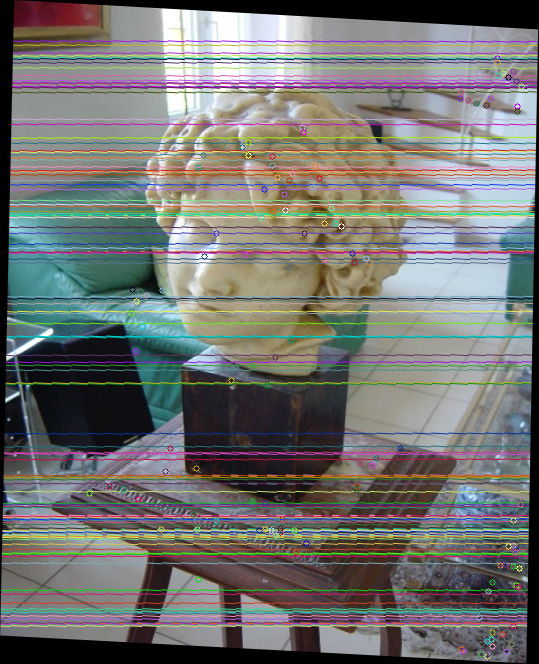
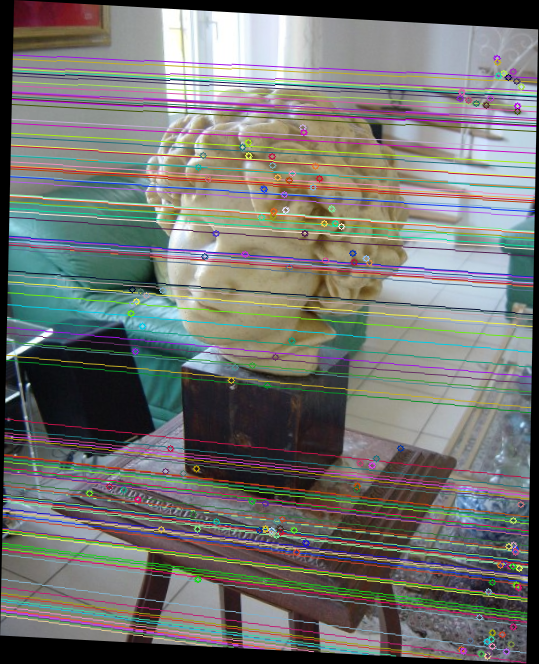
Refactored.

diff --git a/Stereo Vision/StereoPair.cpp b/Stereo Vision/StereoPair.cpp
@@ -4,7 +4,7 @@
 //
 
 #include "StereoPair.h"
-#include "View.h"
+#include "MonoView.h"
 
 using namespace cv;
 using namespace std;
@@ -23,13 +23,14 @@ namespace sv {
             DMatch goodMatch = knnMatches[i][1];
             if (bestMatch.distance < goodMatch.distance * KNN_THRESHOLD) {
                 goodMatchedPoints.push_back(bestMatch);
-                lMatchedPoints.push_back(l->featurePoints()[(bestMatch.queryIdx)].pt);
-                rMatchedPoints.push_back(r->featurePoints()[(bestMatch.trainIdx)].pt);
+                l->pushMatchedPoint(bestMatch.queryIdx);
+                r->pushMatchedPoint(bestMatch.trainIdx);
             }
         }
         cout << "Good Matches: " << goodMatchedPoints.size() << endl;
         Mat matchImg;
-        drawMatches(l->img(), l->featurePoints(), r->img(), r->featurePoints(),
+        drawMatches(l->img(), l->featurePoints(),
+                    r->img(), r->featurePoints(),
                 goodMatchedPoints, matchImg,
                 Scalar::all(-1), Scalar::all(-1), vector<char>(),
                 DrawMatchesFlags::NOT_DRAW_SINGLE_POINTS);
@@ -38,20 +39,15 @@ namespace sv {
 
     void StereoPair::restoreMotion() {
         Mat status;
-        mF = findFundamentalMat(lMatchedPoints, rMatchedPoints, cv::FM_RANSAC, 3, 0.99, status);
-        mF.convertTo(mFundamentalMat, CV_64F);
+        mF = findFundamentalMat(l->matchedPoints(), r->matchedPoints(), cv::FM_RANSAC, 3, 0.99, status);
 
-        computeCorrespondEpilines(lMatchedPoints, 1, mF, lEpiLines);
-        l->img().copyTo(lEpiImg);
-        drawEpiLines(lEpiLines, lEpiImg);
-        //drawMatchedPoints(lMatchedPoints, lEpiImg);
-        imwrite(resPath + "epi-L.png", lEpiImg);
+        l->drawEpipolarLines(mF, palette);
+        l->drawMatchedPoints(palette, l->epipolarImg());
+        imwrite(resPath + "epi-L.png", l->epipolarImg());
 
-        computeCorrespondEpilines(rMatchedPoints, 2, mF, rEpiLines);
-        r->img().copyTo(rEpiImg);
-        drawEpiLines(rEpiLines, rEpiImg);
-        //drawMatchedPoints(rMatchedPoints, rEpiImg);
-        imwrite(resPath + "epi-R.png", rEpiImg);
+        r->drawEpipolarLines(mF, palette);
+        r->drawMatchedPoints(palette, r->epipolarImg());
+        imwrite(resPath + "epi-L.png", r->epipolarImg());
 
 /*
         Mat E = r->intrinsicMat().t() * mFundamentalMat * l->intrinsicMat();
@@ -72,8 +68,8 @@ namespace sv {
     void StereoPair::rectify() {
         Mat H1, H2;
         Size size = Size(l->img().cols * 1.2, l->img().rows * 1.2);
-        stereoRectifyUncalibrated(lMatchedPoints, rMatchedPoints,
-                mFundamentalMat,
+        stereoRectifyUncalibrated(l->matchedPoints(), r->matchedPoints(),
+                mF,
                 size,
                 H2, H1, 0);
 
@@ -110,46 +106,30 @@ namespace sv {
         transformQuad(V, H1, T1, sizeL);
         transformQuad(V, H2, T2, sizeR);
 
-        warpPerspective(lEpiImg, lRectified, T1, sizeL);
-        warpPerspective(rEpiImg, rRectified, T2, sizeR);
+        warpPerspective(l->epipolarImg(), l->rectifiedImg(), T1, sizeL);
+        warpPerspective(r->epipolarImg(), r->rectifiedImg(), T2, sizeR);
 
         Point2f curPoint;
-        for (int i = 0; i < lMatchedPoints.size(); ++i) {
-            curPoint.x = 0, curPoint.y = lMatchedPoints[i].y;
+        for (int i = 0; i < l->matchedPoints().size(); ++i) {
+            curPoint.x = 0, curPoint.y = l->matchedPoints()[i].y;
             int offsetlX = (int) transformPoint(T1, curPoint).x;
-            curPoint.x = 0, curPoint.y = rMatchedPoints[i].y;
+            curPoint.x = 0, curPoint.y = r->matchedPoints()[i].y;
             int offsetrX = (int) transformPoint(T2, curPoint).x;
 
-            transformPoint(T1, lMatchedPoints[i]);
-            transformPoint(T2, rMatchedPoints[i]);
-            mSparseDisparity.push_back((lMatchedPoints[i].x - offsetlX) - (rMatchedPoints[i].x - offsetrX));
+            transformPoint(T1, l->matchedPoints()[i]);
+            transformPoint(T2, r->matchedPoints()[i]);
+            mSparseDisparity.push_back((l->matchedPoints()[i].x - offsetlX) - (r->matchedPoints()[i].x - offsetrX));
         }
 
-        drawMatchedPoints(lMatchedPoints, lRectified);
-        drawMatchedPoints(rMatchedPoints, rRectified);
+        l->drawMatchedPoints(palette, l->rectifiedImg());
+        r->drawMatchedPoints(palette, r->rectifiedImg());
 
-        imwrite(resPath + "rectify-L.png", lRectified);
-        imwrite(resPath + "rectify-R.png", rRectified);
+        imwrite(resPath + "rectify-L.png", l->rectifiedImg());
+        imwrite(resPath + "rectify-R.png", r->rectifiedImg());
     }
 
     void StereoPair::disparity() {
 
     }
 
-    void StereoPair::drawEpiLines(vector<Point3f>& lines, Mat &img) {
-        for (int i = 0; i < lines.size(); ++i) {
-            Point3f *pt = &lines[i];
-            line(img,
-                    Point(0,- pt->z/pt->y),
-                    Point(l->img().cols,-(pt->z + pt->x* l->img().cols)/pt->y),
-                    palette[i % PALETTE_SIZE]);
-        }
-    }
-
-    void StereoPair::drawMatchedPoints(vector<Point2f>& points, Mat &img) {
-        for (int i = 0; i < points.size(); ++i) {
-            Point2f *pt = &points[i];
-            circle(img, Point(pt->x, pt->y), 3, palette[i % PALETTE_SIZE]);
-        }
-    }
 }

diff --git a/Stereo Vision/StereoPair.h b/Stereo Vision/StereoPair.h
@@ -8,28 +8,15 @@
 #define __StereoPair_H_
 
 #include "sv.h"
+#include "MonoView.h"
+#include "StereoView.h"
 
 namespace sv {
     class StereoPair {
     private:
-        View *l;
-        View *r;
+        StereoView *l;
+        StereoView *r;
 
-        cv::Mat lEpiImg;
-        cv::Mat lRectified;
-        cv::Mat lR;
-        cv::Mat lT;
-        std::vector<cv::Point2f> lMatchedPoints;
-        std::vector<cv::Point3f> lEpiLines;
-
-        cv::Mat rEpiImg;
-        cv::Mat rRectified;
-        cv::Mat rR;
-        cv::Mat rT;
-        std::vector<cv::Point2f> rMatchedPoints;
-        std::vector<cv::Point3f> rEpiLines;
-
-        cv::Mat mFundamentalMat;
         cv::Mat mF;
         cv::Mat mEssentialMat;
 
@@ -38,21 +25,23 @@ namespace sv {
         std::vector<int> mSparseDisparity;
 
     public:
-        StereoPair(View *left, View *right) {
-            l = left;
-            r = right;
+        StereoPair(MonoView *left, MonoView *right) {
+            l = new StereoView(left);
+            r = new StereoView(right);
             for (int i = 0; i < PALETTE_SIZE; ++i) {
                 palette.push_back(cv::Scalar(rand() % 255, rand() % 255, rand() % 255));
             }
+        }
+
+        ~StereoPair() {
+            if (nullptr != l) delete l;
+            if (nullptr != r) delete r;
         }
 
         void matchFeaturePoints();
         void restoreMotion();
         void rectify();
         void disparity();
-
-        void drawEpiLines(std::vector<cv::Point3f>&, cv::Mat&);
-        void drawMatchedPoints(std::vector<cv::Point2f>&, cv::Mat&);
     };
 }
 

diff --git a/Stereo Vision/StereoView.cpp b/Stereo Vision/StereoView.cpp
@@ -1,0 +1,42 @@
+//
+// Created by Neo on 14-12-22.
+// Copyright (c) 2014 PKU. All rights reserved.
+//
+
+#include "StereoView.h"
+
+namespace sv {
+    /* Can't convert from derived class to base class. */
+    /* Have to explicitly copy contents */
+    StereoView::StereoView(MonoView *monoView) {
+        monoView->img().copyTo(this->img());
+        monoView->img().copyTo(this->mEpiImg);
+        monoView->intrinsicMat().copyTo(this->intrinsicMat());
+        monoView->descriptor().copyTo(this->descriptor());
+        this->featurePoints() = monoView->featurePoints();
+    }
+
+    void StereoView::pushMatchedPoint(int index) {
+        mMatchedPoints.push_back(featurePoints()[index].pt);
+    }
+
+    void StereoView::drawEpipolarLines(cv::Mat &F, std::vector<cv::Scalar>& palette) {
+        computeCorrespondEpilines(mMatchedPoints, 1, F, mEpiLines);
+        for (int i = 0; i < mEpiLines.size(); ++i) {
+            cv::Point3f *pt = &mEpiLines[i];
+            line(mEpiImg,
+                    cv::Point(0,- pt->z/pt->y),
+                    cv::Point(img().cols,-(pt->z + pt->x* img().cols)/pt->y),
+                    palette[i % PALETTE_SIZE]);
+        }
+    }
+
+    void StereoView::drawMatchedPoints(std::vector<cv::Scalar>& palette, cv::Mat& img) {
+        for (int i = 0; i < mMatchedPoints.size(); ++i) {
+            cv::Point2f *pt = &mMatchedPoints[i];
+            circle(img,
+                    cv::Point(pt->x, pt->y), 3, palette[i % PALETTE_SIZE]);
+        }
+    }
+
+}

diff --git a/Stereo Vision/StereoView.h b/Stereo Vision/StereoView.h
@@ -1,0 +1,46 @@
+//
+// Created by Neo on 14-12-22.
+// Copyright (c) 2014 PKU. All rights reserved.
+//
+
+
+#ifndef __StereoView_H_
+#define __StereoView_H_
+#include "sv.h"
+#include "MonoView.h"
+
+namespace sv {
+    class StereoView : public MonoView {
+    private:
+        cv::Mat mEpiImg;
+        cv::Mat mRectified;
+        cv::Mat mR;
+        cv::Mat mT;
+        std::vector<cv::Point2f> mMatchedPoints;
+        std::vector<cv::Point3f> mEpiLines;
+
+    public:
+        StereoView(MonoView *);
+
+        void pushMatchedPoint(int index);
+        void drawEpipolarLines(cv::Mat &, std::vector<cv::Scalar>&);
+        void drawMatchedPoints(std::vector<cv::Scalar>&, cv::Mat &img);
+
+        cv::Mat &epipolarImg() {
+            return mEpiImg;
+        }
+        cv::Mat &rectifiedImg() {
+            return mRectified;
+        }
+        std::vector<cv::Point2f>& matchedPoints() {
+            return mMatchedPoints;
+        }
+        std::vector<cv::Point3f>& epipolarLines() {
+            return mEpiLines;
+        }
+
+    };
+}
+
+
+#endif //__StereoView_H_

diff --git a/Stereo Vision/main.cpp b/Stereo Vision/main.cpp
@@ -12,9 +12,10 @@
 #include <GLUT/glut.h>
 
 #include "sv.h"
-#include "View.h"
-#include "PointCloud.h"
+#include "MonoView.h"
+#include "StereoView.h"
 #include "StereoPair.h"
+#include "PointCloud.h"
 
 using namespace std;
 using namespace cv;
@@ -25,7 +26,7 @@ int main() {
     Mat imgLeft = imread(dirPath + "B01.jpg", CV_64FC3),
         imgRight = imread(dirPath + "B02.jpg", CV_64FC3);
 
-    sv::View l = sv::View(imgLeft), r = sv::View(imgRight);
+    sv::MonoView l = sv::MonoView(imgLeft), r = sv::MonoView(imgRight);
 
     l.extractFeaturePoints();
     r.extractFeaturePoints();

diff --git a/Stereo Vision/MonoView.h b/Stereo Vision/MonoView.h
@@ -1,5 +1,5 @@
 //
-//  View.h
+//  MonoView.h
 //  Stereo Vision
 //
 //  Created by Neo on 14-12-3.
@@ -12,7 +12,7 @@
 #include "sv.h"
 
 namespace sv {
-    class View {
+    class MonoView {
 
     /* Members */
     private:
@@ -30,9 +30,9 @@ namespace sv {
     public:
         void extractFeaturePoints();
 
-        View(cv::Mat img) {
+        MonoView() {}
+        MonoView(cv::Mat img) {
             mImg = img;
-            mIntrinsicMat = cv::Mat(3, 3, CV_32F);
         }
 
         cv::Mat &img() {

diff --git a/Stereo Vision/MonoView.cpp b/Stereo Vision/MonoView.cpp
@@ -1,16 +1,16 @@
 //
-//  View.cpp
+//  MonoView.cpp
 //  Stereo Vision
 //
 //  Created by Neo on 14-12-3.
 //  Copyright (c) 2014年 PKU. All rights reserved.
 //
 
-#include "View.h"
+#include "MonoView.h"
 
 namespace sv {
     /* Public interfaces */
-    void View::extractFeaturePoints() {
+    void MonoView::extractFeaturePoints() {
         cv::SiftFeatureDetector detector;
         cv::SiftDescriptorExtractor extractor;
         detector.detect(mImg, mFeaturePoints);

diff --git a/Stereo Vision/sv.h b/Stereo Vision/sv.h
@@ -20,7 +20,8 @@ namespace sv {
     const static int PALETTE_SIZE = 100;
     const static float KNN_THRESHOLD = 0.5f;
 
-    class View;
+    class MonoView;
+    class StereoView;
     class StereoPair;
     class PointCloud;
 };
